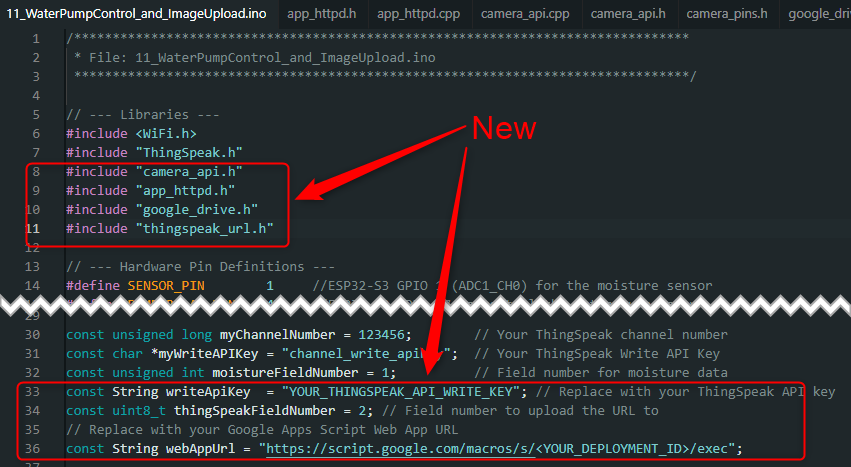
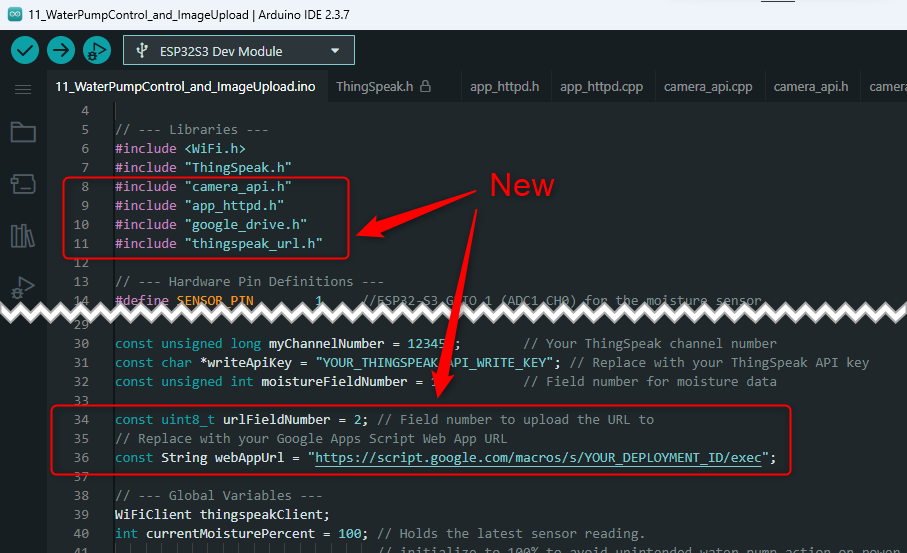
Program update and documentation finalized
Change const String writeApiKey  to const char* writeApiKey.

diff --git a/docs/4.3_Challenge3_Uploading_images_to_GoogleDrive_and_ThingSpeak.md b/docs/4.3_Challenge3_Uploading_images_to_GoogleDrive_and_ThingSpeak.md
@@ -122,7 +122,7 @@ We cannot upload a file directly from the ESP32-S3 to Google Drive. Instead, we 
 
 7.  Google will prompt you to **Authorize access**. Grant the script the necessary permissions to access your Google Drive.
 
-8.  After authorization, the deployment will provide a **Web app URL**. Copy this URL. It will look like `https://script.google.com/macros/s/<YOUR_DEPLOYMENT_ID>/exec`.
+8.  After authorization, the deployment will provide a **Web app URL**. Copy this URL. It will look like `https://script.google.com/macros/s/YOUR_DEPLOYMENT_ID/exec`.
 
     <img src="./images/Google_web_app_url.jpg">
 
@@ -209,11 +209,11 @@ title('Latest Uploaded Image');
 Before you test, you need to update the placeholders in your code:
 
 1. **In the MATLAB script:** Replace `YOUR_CHANNEL_ID` and `YOUR_READ_API_KEY` with your actual ThingSpeak channel ID and Read API Key. Press **Save and Run**.
-3. **In the Arduino code (`.ino` file):** Locate the `writeApiKey` constant and replace the placeholder with your ThingSpeak channel's Write API Key.
+3. **In the Arduino code (`.ino` file):** Locate `ssid`, `password`, `writeApiKey`, and the `webAppUrl` constant values and replace the placeholders with your credentials. Save the file and upload the sketch to your ESP32-S3.
 
 <img src = "./images/your_thingspeak_writeApiKey.png">
 
-After uploading the final code to your ESP32-S3, trigger an image capture. The new image will appear in your ThingSpeak channel visualization.
+After uploading the final code, trigger an image capture. The new image will appear in your Google Drive and ThingSpeak channel visualization.
 
 <img src="./images/Image_on_ThingSpeak.jpg">
 
@@ -233,7 +233,7 @@ In the final version, the camera will automatically capture and upload an image 
 
    <img src = "./images/copy_all_files_from_10_to_11.png">
    
-3. Include the necessary header files in the main Arduino sketch and define the `webAppUrl` constant as shown below:
+3. Include the necessary header files and define the URL field number `urlFieldNumber` and  `webAppUrl` constants in the Arduino sketch as shown below:
    
    <img src = "./images/Project_11_new_headers.png">
    
